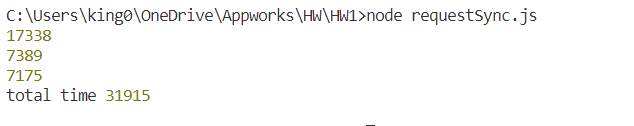
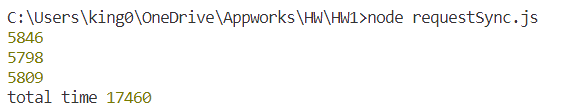
Revise requestSync.js and Sync.png

Changed region(s): [[0.0, 0.0536, 0.968, 0.9375], [0.5747, 0.9911, 0.605, 1.0]]

diff --git a/requestSync.js b/requestSync.js
@@ -1,20 +1,15 @@
-const https = require('https');
+const url = "https://ec2-54-64-246-136.ap-northeast-1.compute.amazonaws.com/delay-clock";
+
+const request = require('sync-request');
 
 function requestSync(url) {
-    const startTime = Date.now();
-  
-    const response = https.get(url);
-
-    response.on('end', () => {
-        const endTime = Date.now();
-        const executionTime = endTime - startTime;
-        console.log(executionTime);
-    });
+    let startTime = Date.now() ;
+    request('GET', url);
+    let endTime = Date.now() ;
+    console.log(endTime - startTime);
 }
-
-const url = "https://ec2-54-64-246-136.ap-northeast1.compute.amazonaws.com/delay-clock";
-
+let S = Date.now() ;
 requestSync(url);
 requestSync(url);
 requestSync(url);
-
+console.log('total time', Date.now()-S) ;
